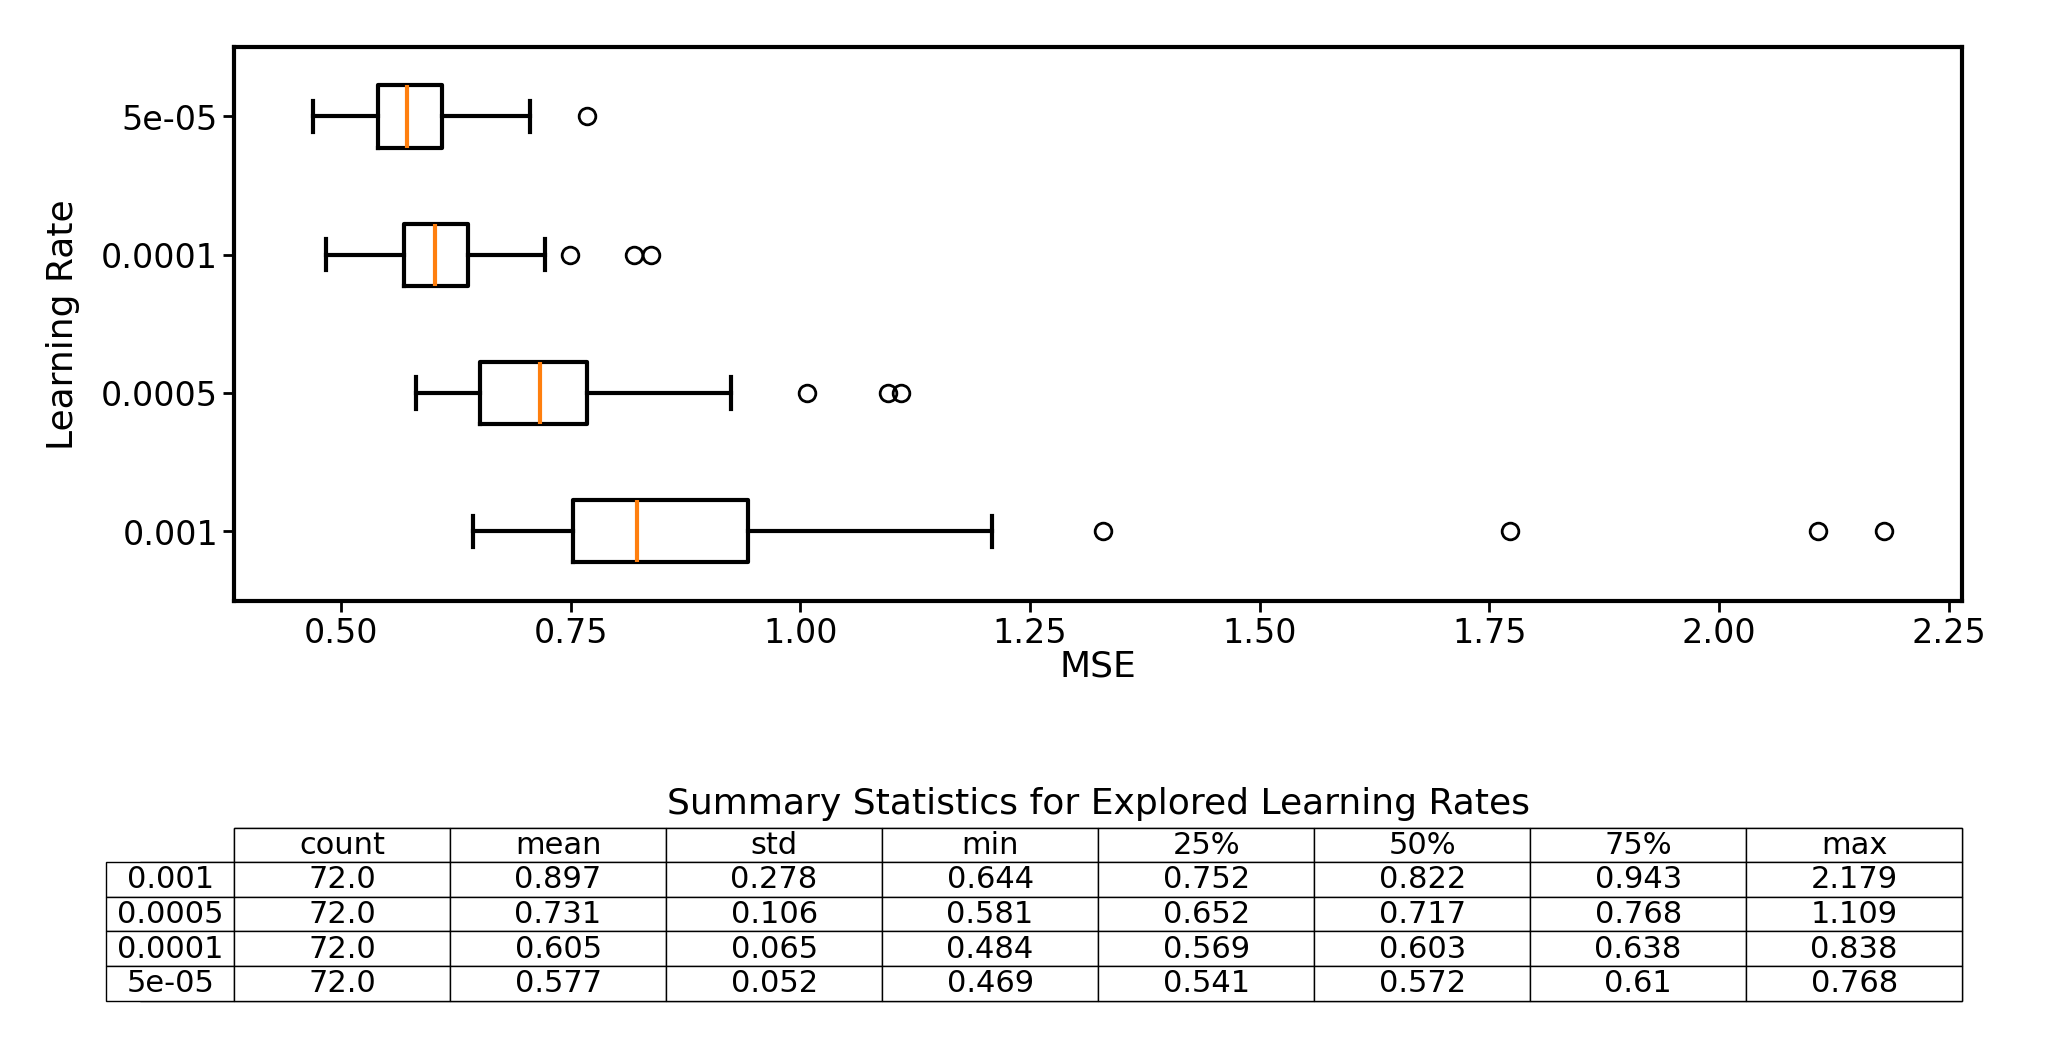
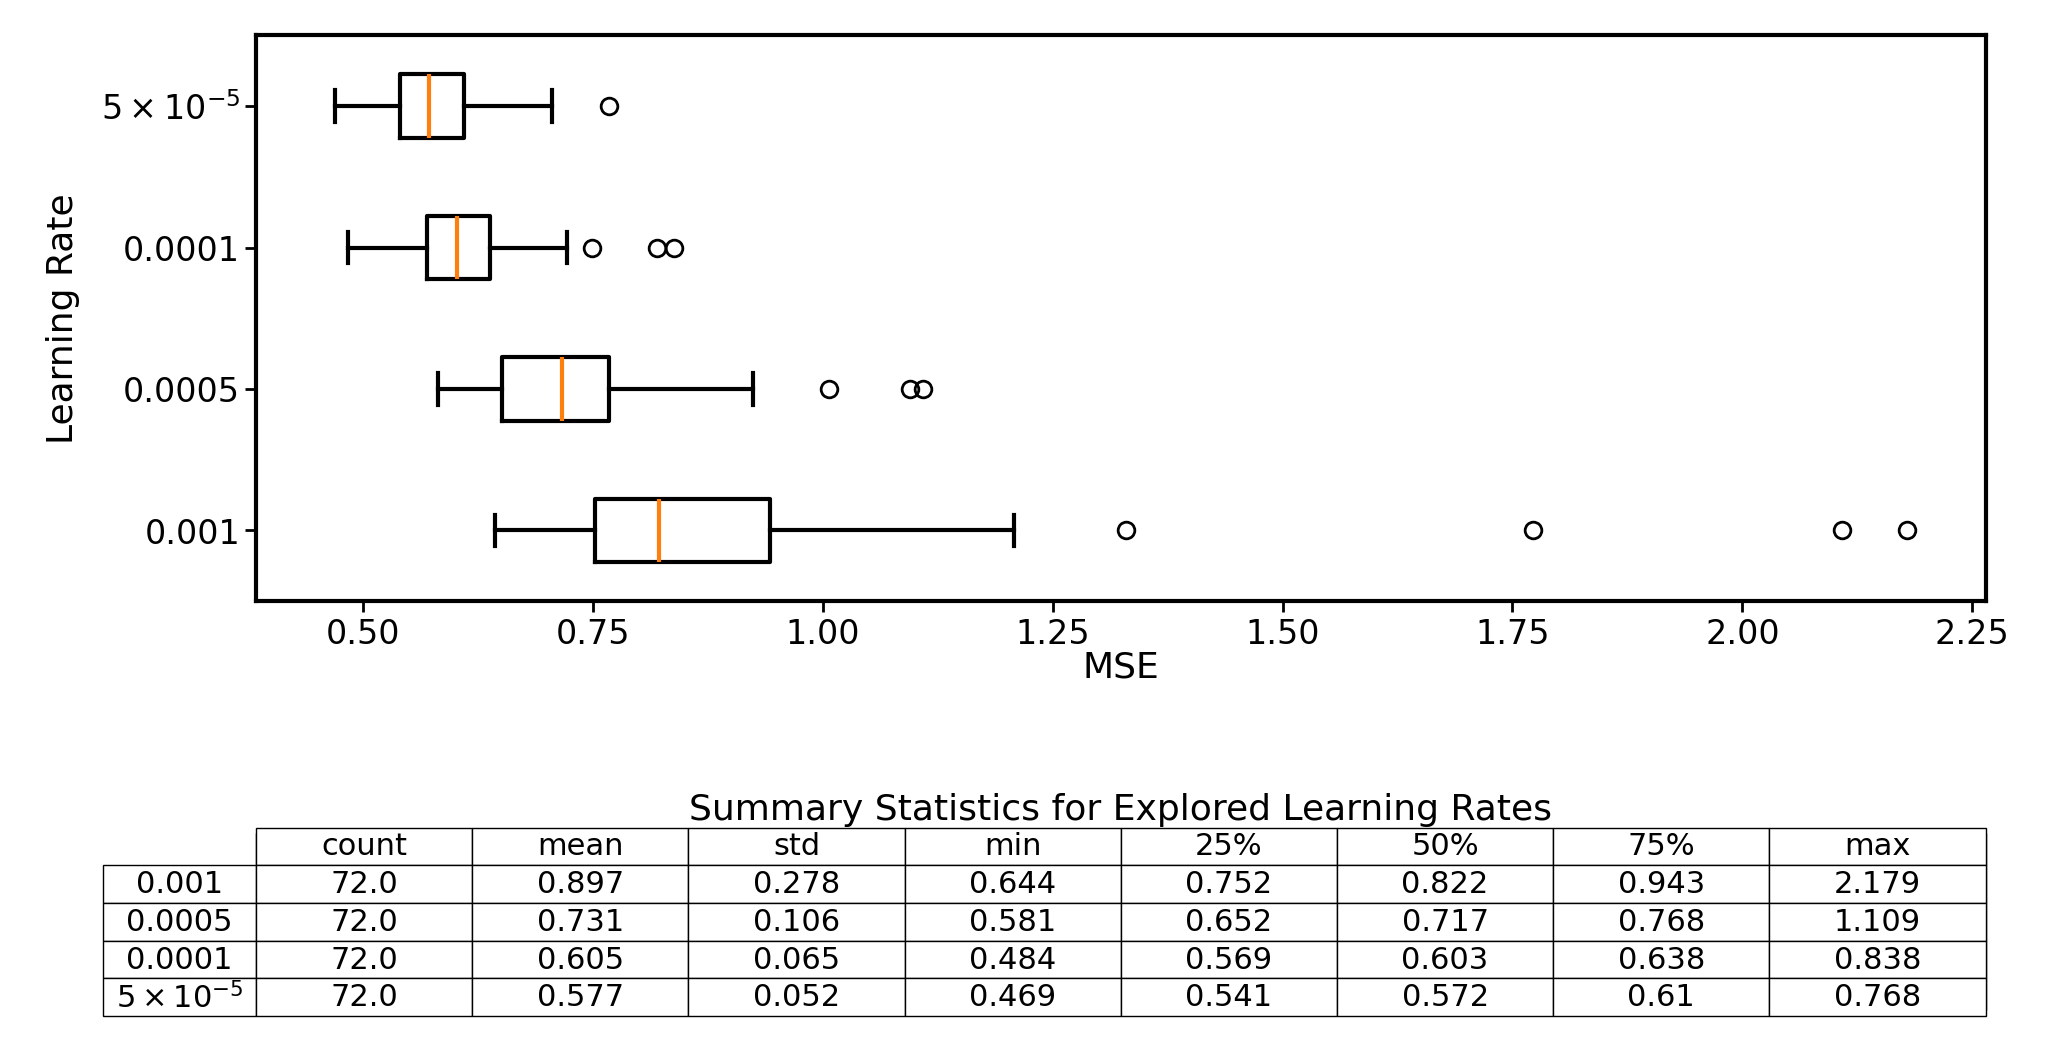
updated graphs that was not the last time

diff --git a/boxplot_lr.py b/boxplot_lr.py
@@ -43,7 +43,7 @@ for i in range(len(results)):
 summary = (pd.DataFrame({"0.001":  pd.Series(lr_1).describe(),
                          "0.0005": pd.Series(lr_2).describe(),
                          "0.0001":  pd.Series(lr_3).describe(),
-                         "5e-05":  pd.Series(lr_4).describe(),})
+                         r'$5\times10^{-5}$':  pd.Series(lr_4).describe(),})
            .loc[['count','mean','std','min','25%','50%','75%','max']]
            .T.round(3))
 
@@ -59,7 +59,7 @@ fig, (ax_box, ax_tbl) = plt.subplots(
 
 ax_box.boxplot([lr_1, lr_2, lr_3, lr_4],                     
                vert=False,
-               labels=["0.001", "0.0005", "0.0001", "5e-05"],
+               labels=["0.001", "0.0005", "0.0001", r'$5\times10^{-5}$'],
                boxprops=dict(linewidth=3),
                whiskerprops=dict(linewidth=3),
                capprops=dict(linewidth=3),
@@ -81,11 +81,13 @@ ax_tbl.table(cellText=summary.values,
              loc='center')                                  
 
 fig.tight_layout(pad=2)                                       
-tbl = ax_tbl.table(cellText=summary.values,
-                   rowLabels=summary.index,
-                   colLabels=summary.columns,
-                   cellLoc='center', rowLoc='center',
-                   loc='center')
+tbl = ax_tbl.table(
+    cellText=summary.values,
+    rowLabels=summary.index,
+    colLabels=summary.columns,
+    cellLoc='center', rowLoc='center',
+    bbox=[0, 0, 1, 1]        # fill the whole axes
+)
 
 tbl.auto_set_font_size(False) 
 tbl.set_fontsize(22)     

diff --git a/goof_graph.py b/goof_graph.py
@@ -35,7 +35,7 @@ df["learningrate"] = lrs
 df["optimizer"]    = optimizers
 
 df['xgroup'] = df['size'] + ' | ' + df['shapetype']
-df['ygroup'] = df['epochs'].astype(str) + ' | ' + df['learningrate'].astype(str)
+df['ygroup'] = df['epochs'].astype(str) + ' | ' + df['learningrate'].astype(str).str.replace('5e-05', r'$5\times10^{-5}$', regex=False)
 
 # 2) Compute global color range
 global_min = df['mse'].min()
@@ -43,7 +43,7 @@ global_max = df['mse'].max()
 
 # 3) Plot with the same vmin/vmax
 fig, axes = plt.subplots(1, 2, figsize=(14, 6), dpi=300, constrained_layout=True)
-fig, axes = plt.subplots(1, 2, figsize=(14, 6), dpi=300, constrained_layout=True)
+
 fig.set_constrained_layout_pads(wspace=0.2, hspace=0.1)
 for ax, opt in zip(axes, ['Adam', 'AdamW']):
     ax.set_title(opt)

diff --git a/boxplot_epochs.py b/boxplot_epochs.py
@@ -76,11 +76,13 @@ ax_box.set_ylim(pos[0] - gap * 0.6, pos[-1] + gap * 0.6)
 
 # ---------------------------------------------------------------------
 ax_tbl.axis('off')
-tbl = ax_tbl.table(cellText=summary.values,
-                   rowLabels=summary.index,
-                   colLabels=summary.columns,
-                   cellLoc='center', rowLoc='center',
-                   loc='center')
+tbl = ax_tbl.table(
+    cellText=summary.values,
+    rowLabels=summary.index,
+    colLabels=summary.columns,
+    cellLoc='center', rowLoc='center',
+    bbox=[0, 0, 1, 1]        # fill the whole axes
+)
                    
 tbl.auto_set_font_size(False) 
 tbl.set_fontsize(22)     

diff --git a/boxplot_size.py b/boxplot_size.py
@@ -64,11 +64,13 @@ ax_box.set_ylim(pos[0] - gap * 0.6, pos[-1] + gap * 0.6)
 
 # ---------------------------------------------------------------------
 ax_tbl.axis('off')
-tbl = ax_tbl.table(cellText=summary.values,
-                   rowLabels=summary.index,
-                   colLabels=summary.columns,
-                   cellLoc='center', rowLoc='center',
-                   loc='center')
+tbl = ax_tbl.table(
+    cellText=summary.values,
+    rowLabels=summary.index,
+    colLabels=summary.columns,
+    cellLoc='center', rowLoc='center',
+    bbox=[0, 0, 1, 1]        # fill the whole axes
+)
 tbl.auto_set_font_size(False)
 tbl.set_fontsize(22)
 

diff --git a/boxplot_optimizer.py b/boxplot_optimizer.py
@@ -86,7 +86,6 @@ tbl.set_fontsize(22)
 ax_tbl.set_title(
     "Summary Statistics for Explored Optimizers",
     fontsize=26,
-    pad=15
 )
 
 plt.show()

diff --git a/boxplot_shape.py b/boxplot_shape.py
@@ -86,6 +86,5 @@ tbl.set_fontsize(22)
 ax_tbl.set_title(
     "Summary Statistics for Explored Shapes",
     fontsize=26,
-    pad=15
 )
 plt.show()
